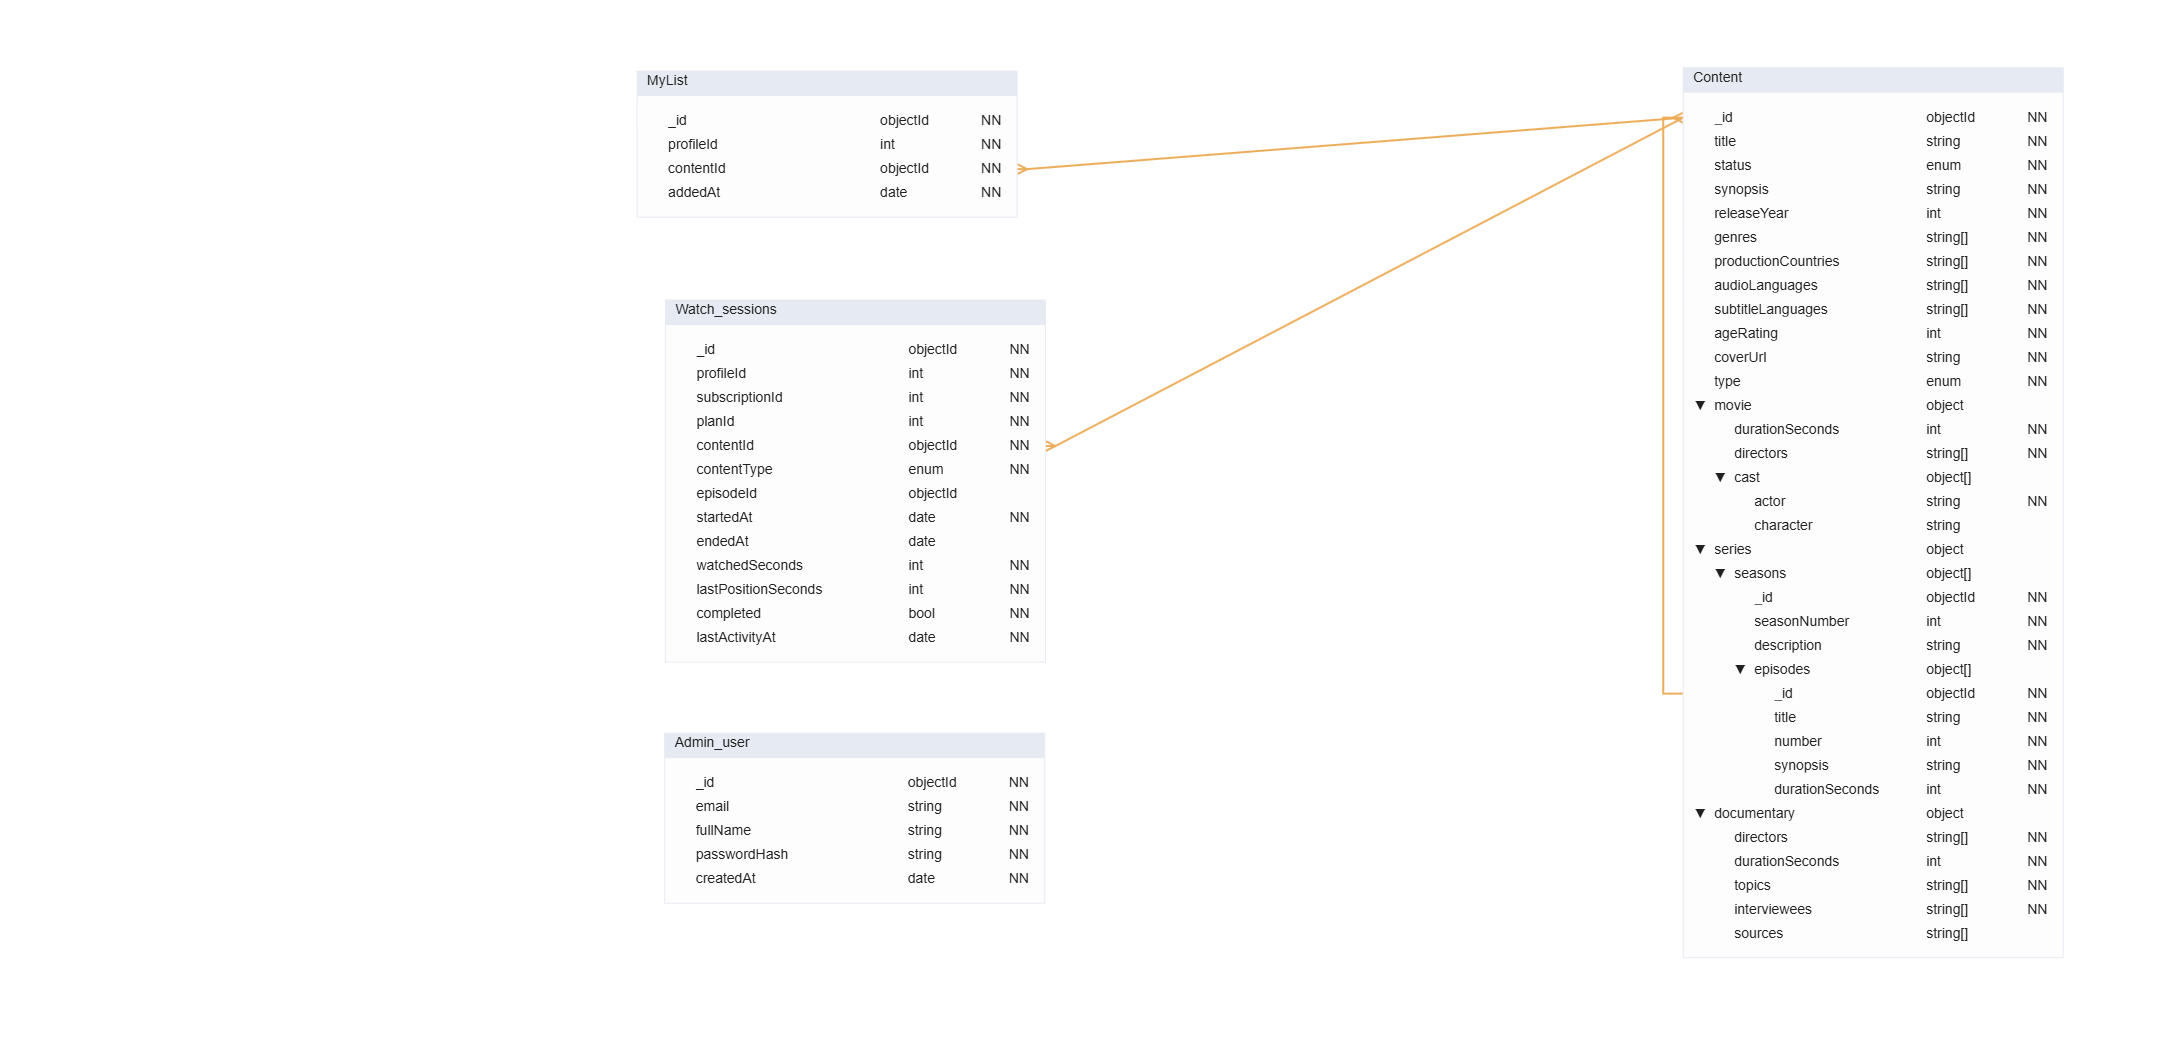
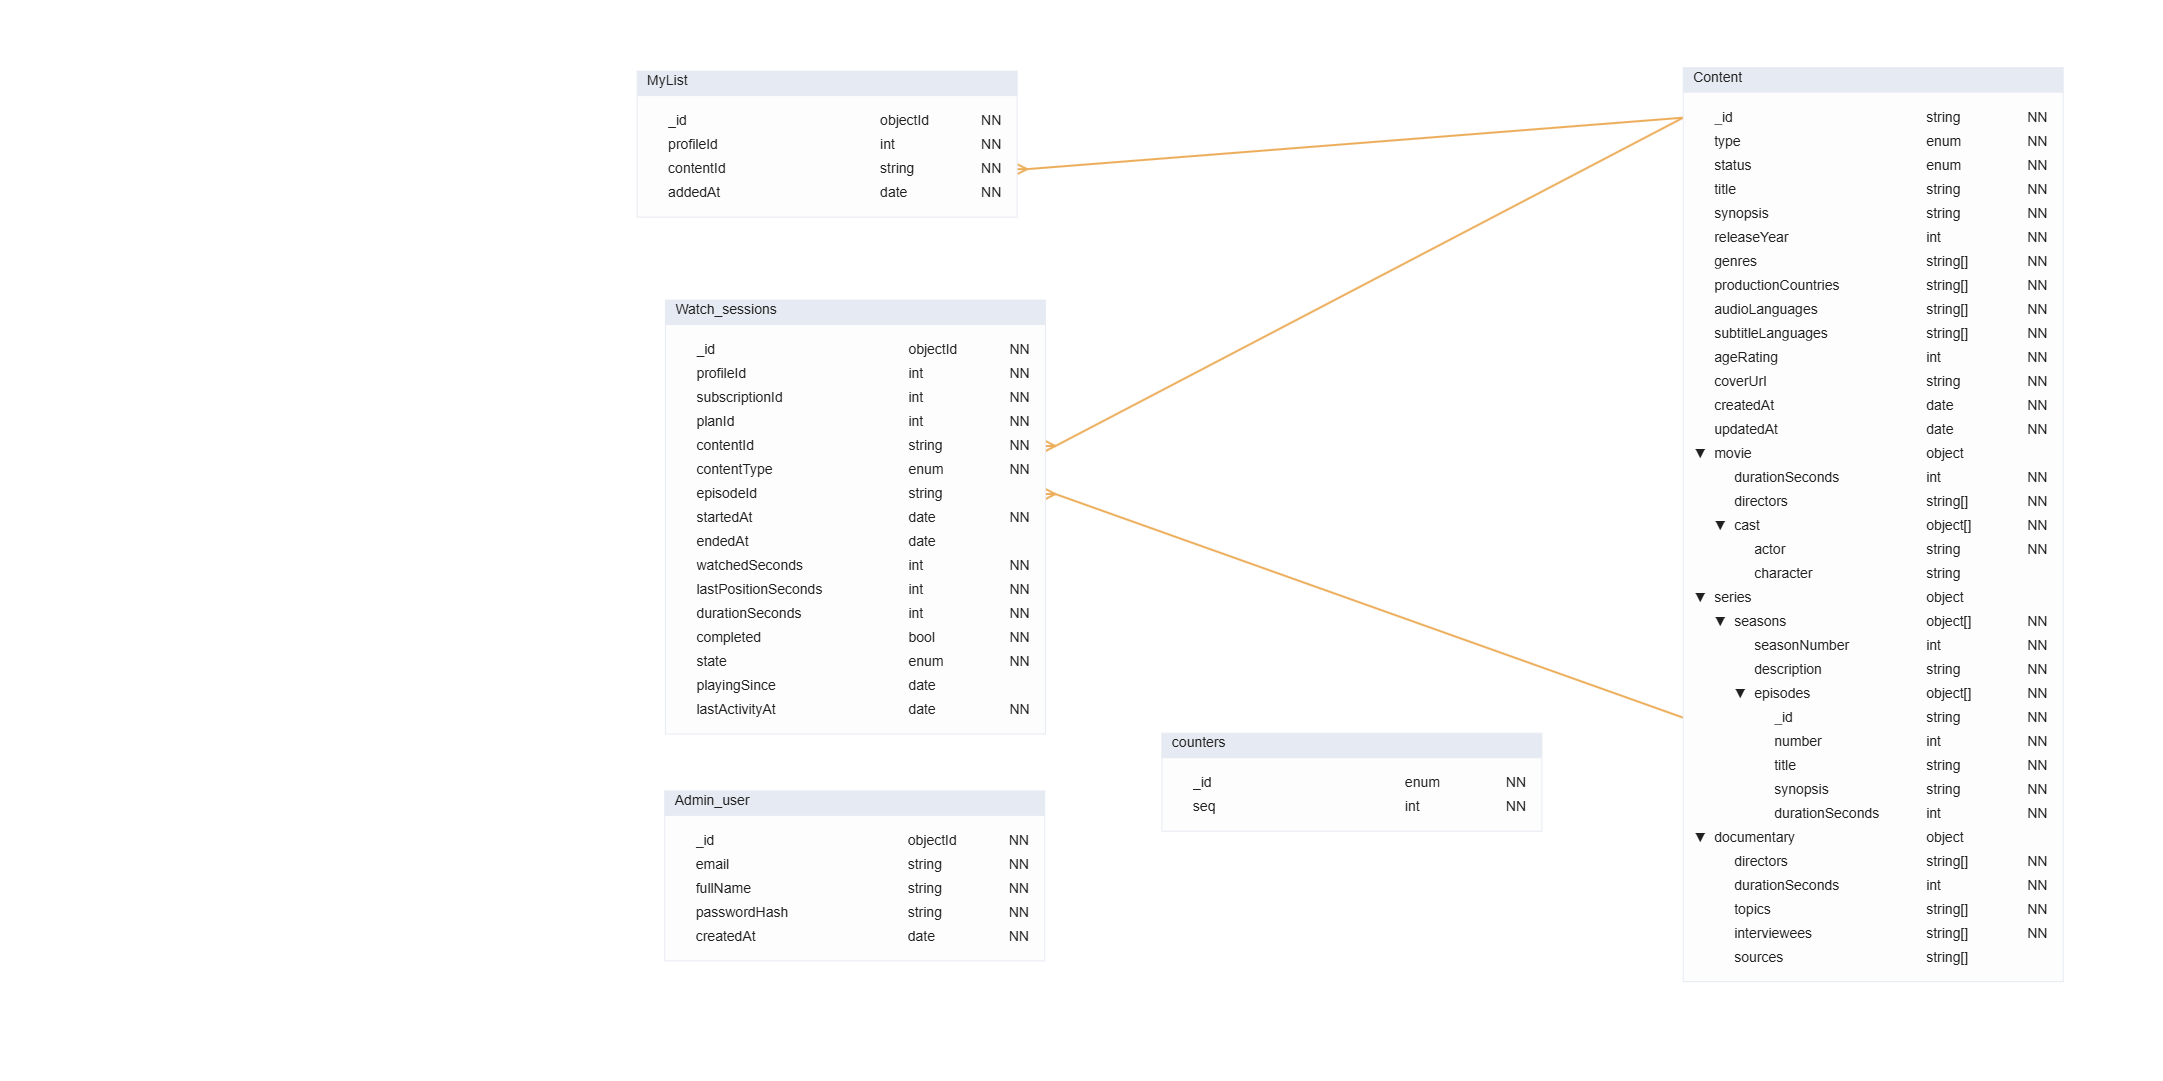
docs: update MongoDB diagram to the implemented model

diff --git a/docs/modelo-documental.md b/docs/modelo-documental.md
@@ -221,7 +221,7 @@ Las colecciones crecen así:
 
 ## 10. Casos de prueba sembrados
 
-**Oracle** (`cineconecta_oracle.sql`) y **Mongo** (`03_seed.js`) se cargan con los mismos ids. Las pruebas de rechazo están en `05_verification.sql` y `07_validation_tests.js`, y la concurrencia en `05b_concurrency_demo.sql`.
+**Oracle** (`01_cineconecta_oracle.sql`) y **Mongo** (`03_seed.js`) se cargan con los mismos ids. Las pruebas de rechazo están en `05_verification.sql` y `07_validation_tests.js`, y la concurrencia en `05b_concurrency_demo.sql`.
 
 | Regla | Dato que la demuestra | Dónde se ve |
 |---|---|---|
@@ -254,9 +254,9 @@ Las colecciones crecen así:
 
 Ver la sección *MongoDB* del [README](../readme.md). Resumen:
 
-1. Oracle: `cineconecta_oracle.sql`.
+1. Oracle: `01_cineconecta_oracle.sql`.
 2. Mongo, en este orden: `01_collections.js`, `02_indexes.js`, `03_seed.js` y `07_validation_tests.js`.
 3. Volumen, el mismo día en los dos motores: `04_volume_load.sql` y `04_volume.js`.
 4. Evidencias: `05_verification.sql`, `05b_concurrency_demo.sql`, los experimentos de índices `05_index_experiment.js` y `06_index_experiment.sql`, y los catálogos `07_object_catalog.sql` y `08_catalog.js`.
 
-> **Pendiente del equipo:** el diagrama `docs/MongoDb Diagram/cineconecta.mml` todavía muestra los ids de contenido como `ObjectId`. Ahora son strings legibles (`MOV-00001`, y `SER-00001-S01E01` en los episodios).
+**Diagrama:** [`cineconecta.mml`](MongoDb%20Diagram/cineconecta.mml) (imagen: [`cineconecta.png`](MongoDb%20Diagram/cineconecta.png)). Coincide campo por campo con los validadores de `01_collections.js`: ids de contenido como strings legibles (`MOV-00001`, `SER-00001-S01E01`), la colección `counters` y el estado de la reproducción en `Watch_sessions` (`state`, `playingSince`, `durationSeconds`).
